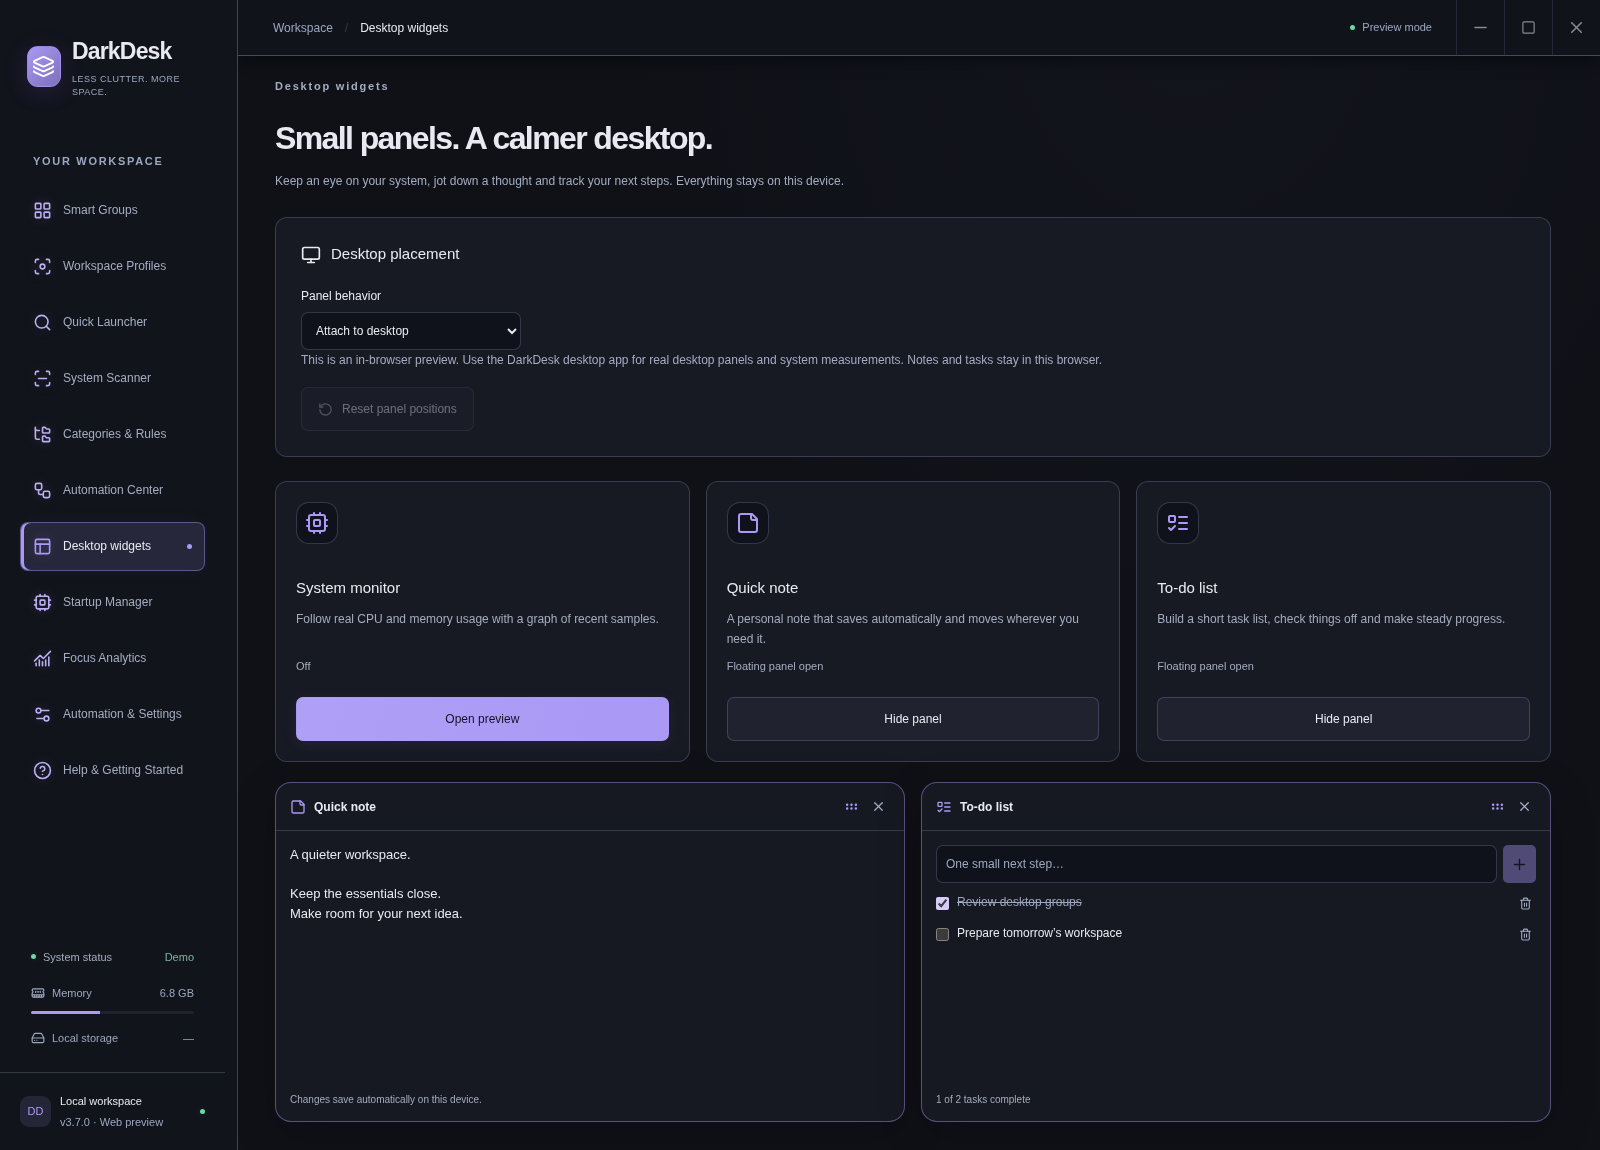
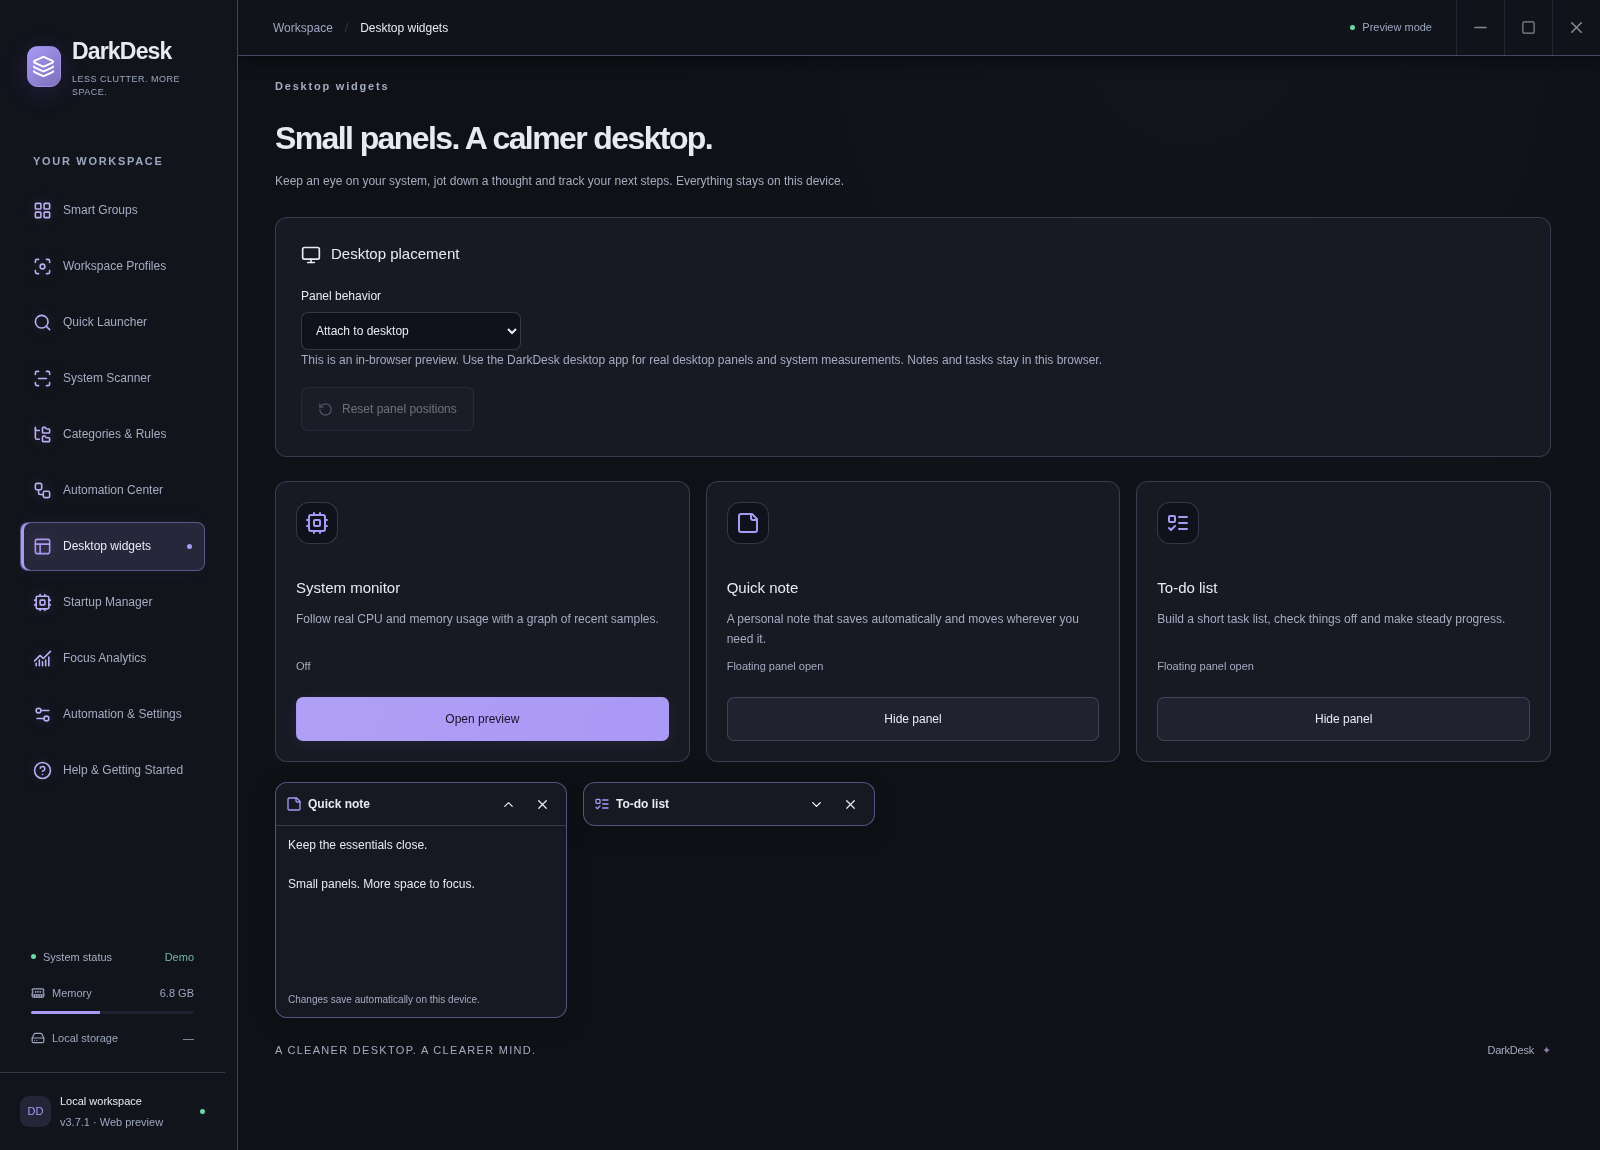
docs: record verified 3.7.1 release and compact widget preview [skip ci]

diff --git a/docs/VALIDATION.md b/docs/VALIDATION.md
@@ -4,7 +4,12 @@
 
 - 295 local service/model tests passed. Added persistence and real native-size invariants for collapsed widgets, immutable folder resource identities, cache integrity checks and per-core CPU samples.
 - 17 related browser scenarios passed, followed by six final widget/color regressions after contrast refinement. These cover draft preservation, restart, independent collapse, preventing preference reloads on note saves, palette persistence and physical-appearance dispatch.
-- Production build, existing Electron file-operation smoke and widget smoke passed locally. Cross-platform publication checks are recorded after CI completes.
+- Production build, existing Electron file-operation smoke and widget smoke passed locally. Cross-platform checks and publication completed successfully.
+
+- **CI verified:** [Windows Installer](https://github.com/Huseyinhk61/DarkDesk/actions/runs/42108117765) passed source and packaged Electron checks, Setup/Portable generation, checksum/update verification and publication. [Test & Build](https://github.com/Huseyinhk61/DarkDesk/actions/runs/42108117458) passed Windows/Linux services, **115 browser scenarios**, and real macOS widget collapse/expand controls.
+- [Release v3.7.1](https://github.com/Huseyinhk61/DarkDesk/releases/tag/v3.7.1), Setup, Portable and blockmap are publicly accessible (HTTP 200). The update feed reports 3.7.1 with matching installer size.
[2 lines of base64/hex data omitted]
 
 ## 3.7.0 — descriptions, widgets, startup control, and focus analytics
 

diff --git a/docs/PRODUCTIVITY.md b/docs/PRODUCTIVITY.md
@@ -78,3 +78,9 @@ A normal quit flushes pending aggregate records. Forced termination can lose the
 - [Profiles and background file automation](ECOSYSTEM.md)
 - [Folder colors and themes](FOLDER-APPEARANCE.md)
 - [Validation and platform limits](VALIDATION.md)
+
+### Compact controls in 3.7.1
+
+Each panel can collapse to a 44-pixel header without discarding its note or tasks. Collapse state survives restart, and expanding restores compact content bounds. The system panel shows per-core CPU samples and a memory percentage bar; its polling pauses while collapsed.
+
+Folder artwork now uses immutable content-addressed files in DarkDesk’s local `folder-artwork` cache. Windows `desktop.ini` references this cache so Explorer distinguishes color and style changes from its previous icon identity. Existing custom folder metadata remains protected. Saving an unchanged category also retries the appearance update for older folders.
